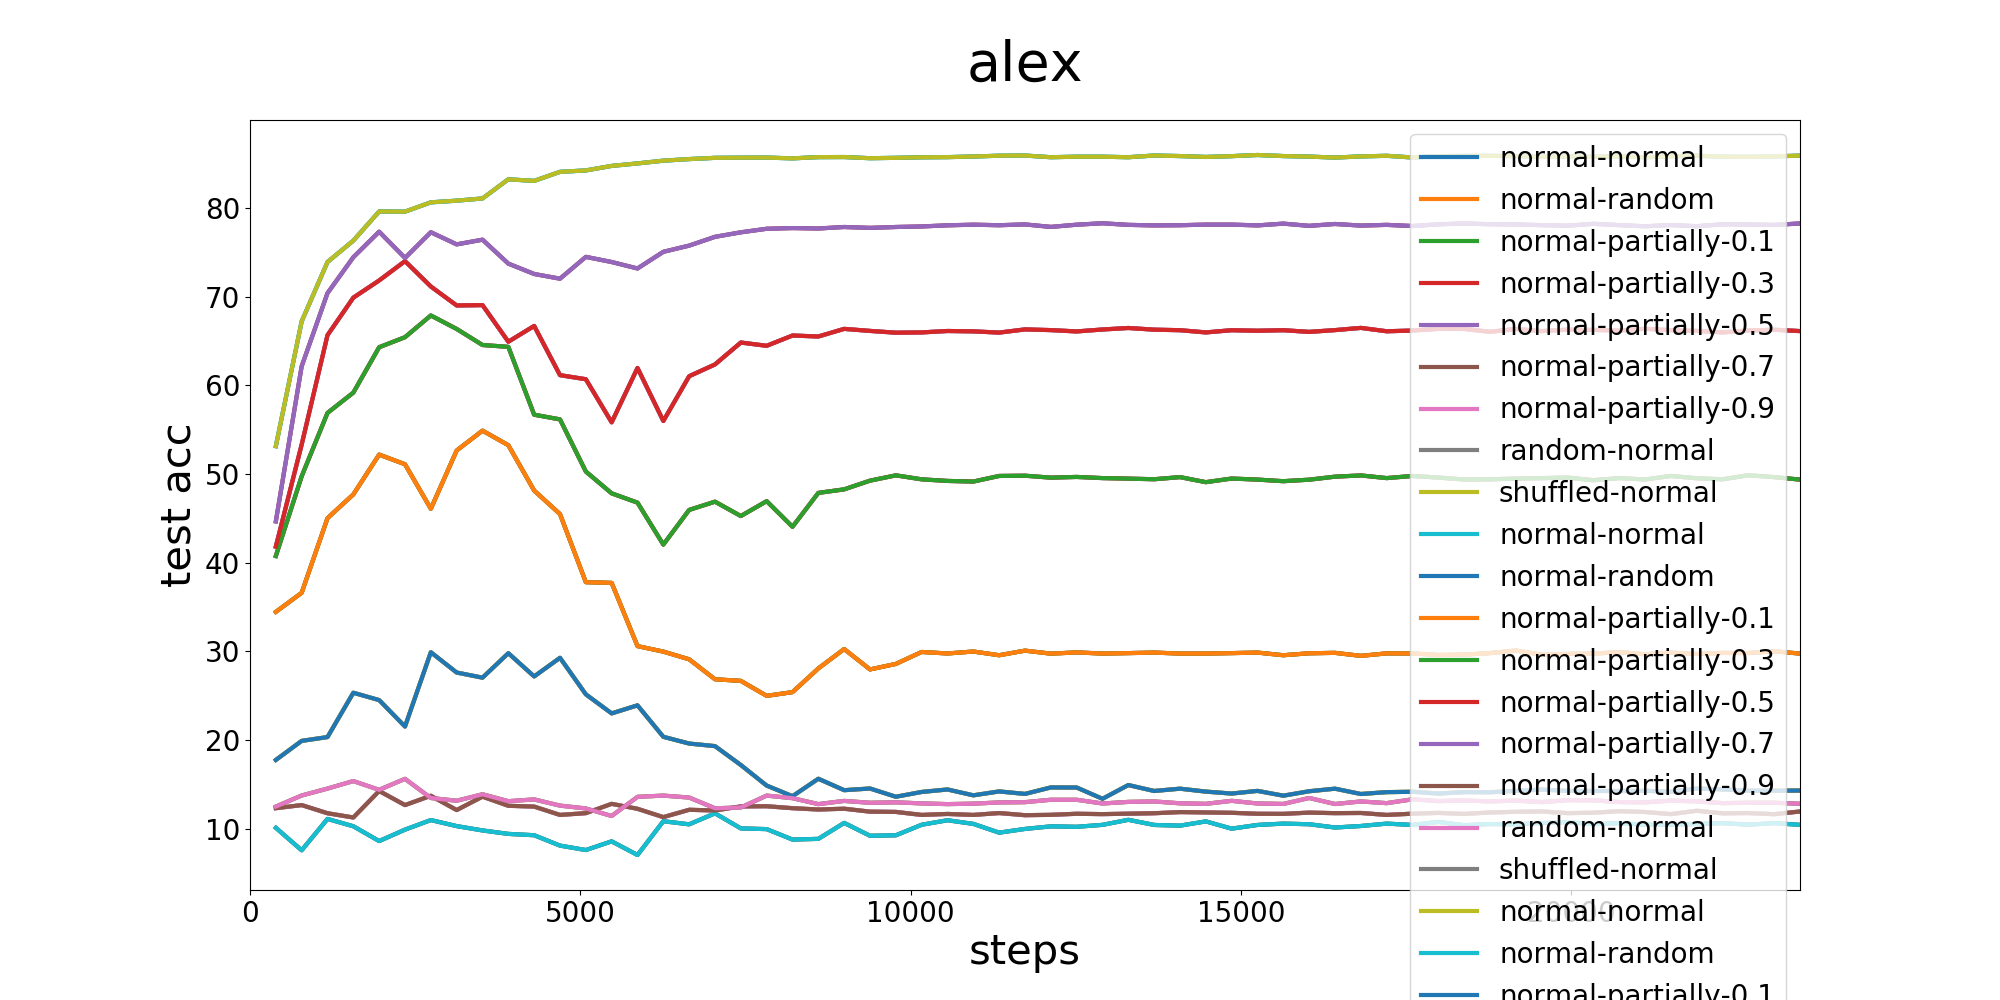
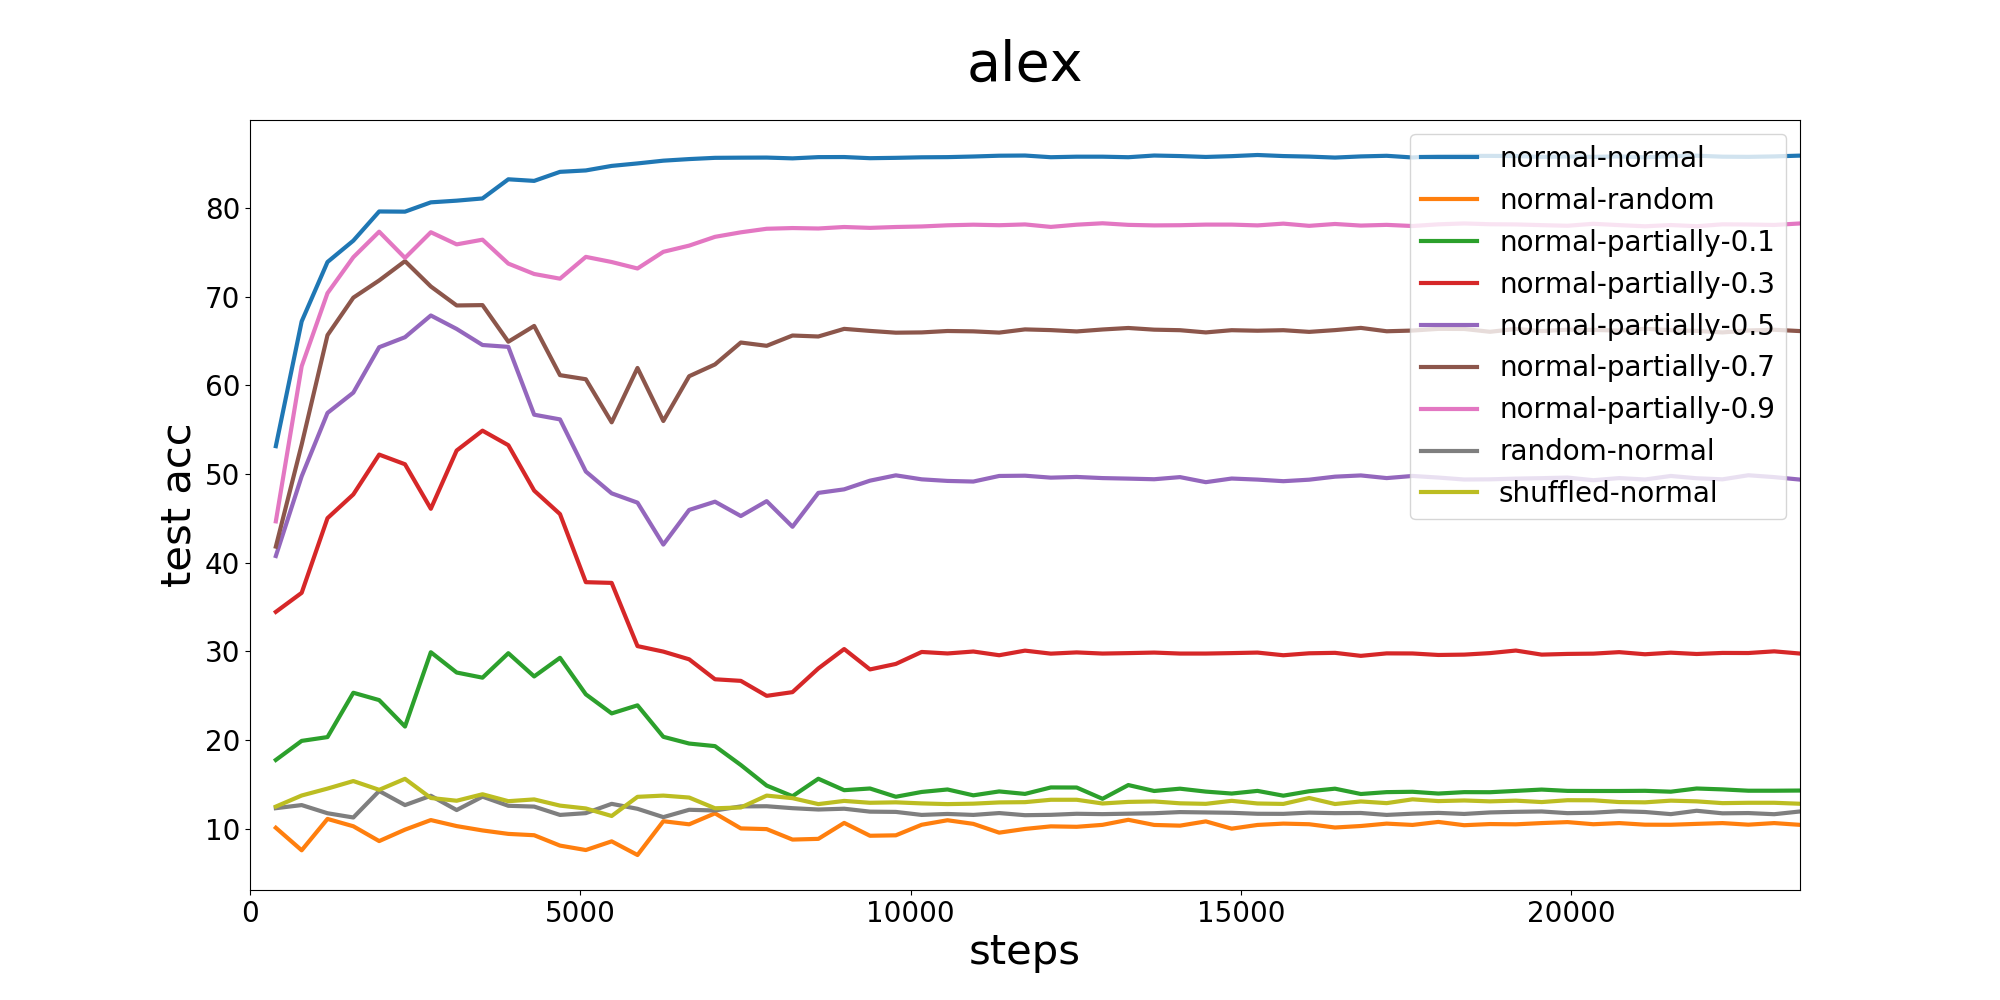
add

diff --git a/over-param.py b/over-param.py
@@ -17,6 +17,9 @@ from cifar import CIFAR10
 from models import resnet, alexnet, inceptions, vgg
 from utils import AverageMeter, accuracy, Logger
 
+os.environ["CUDA_DEVICE_ORDER"] = "PCI_BUS_ID"
+os.environ["CUDA_VISIBLE_DEVICES"] = "0"
+
 use_gpu = torch.cuda.is_available()
 
 
@@ -95,103 +98,98 @@ def train_model(model, criterion, optimizer, scheduler, log_saver, mode, num_epo
     return model, log_saver
 
 
-if __name__ == "__main__":
 
-    os.environ["CUDA_DEVICE_ORDER"] = "PCI_BUS_ID"
-    os.environ["CUDA_VISIBLE_DEVICES"] = "0"
+## 'vgg16','resnet18','alex','inception'
+model_name = 'resnet18'
 
-    ## 'vgg16','resnet18','alex','inception'
-    model_name = 'resnet18'
+root = './'
+lr = 0.1
+BATCH_SIZE = 128
+weight_decay = 0.
+num_epochs = 60
 
-    root = './'
-    lr = 0.1
-    BATCH_SIZE = 128
-    weight_decay = 0.
-    num_epochs = 60
+mode_set = [('normal', 'normal'), ('normal', 'random'), ('normal', 'partially-0.1'),
+            ('normal', 'partially-0.3'), ('normal', 'partially-0.5'), ('normal', 'partially-0.7'),
+            ('normal', 'partially-0.9'), ('random', 'normal'), ('shuffled', 'normal')]
 
-    mode_set = [('normal', 'normal'), ('normal', 'random'), ('normal', 'partially-0.1'),
-                ('normal', 'partially-0.3'), ('normal', 'partially-0.5'), ('normal', 'partially-0.7'),
-                ('normal', 'partially-0.9'), ('random', 'normal'), ('shuffled', 'normal')]
+for (mode1, mode2) in mode_set:
+    print(mode1, ' and ', mode2, ' :')
+    img_transforms = transforms.Compose([transforms.ToTensor(),
+                                         transforms.Normalize(
+                                             (0.4914, 0.4822, 0.4465),
+                                             (0.2023, 0.1994, 0.2010))])
+    training_dataset = CIFAR10(root, train=True, transform=img_transforms, image_mode=mode1, label_mode=mode2)
+    training_loader = DataLoader(training_dataset, BATCH_SIZE, shuffle=True, pin_memory=True)
+
+    testing_dataset = CIFAR10(root, train=False, transform=img_transforms)
+    testing_loader = DataLoader(testing_dataset, BATCH_SIZE, shuffle=False, pin_memory=True)
+
+    loaders = {'train': training_loader, 'test': testing_loader}
+
+    resnet18 = resnet.ResNet18()
+    vgg16 = vgg.VGG('VGG16')
+    alex = alexnet.alexnet()
+    inception = inceptions.GoogLeNet()
+
+    exec('model={}'.format(model_name))
+
+    if use_gpu:
+        model = resnet18.cuda()
+
+    criterion = nn.CrossEntropyLoss()
+    optimizer = optim.SGD(model.parameters(), lr=lr, momentum=0.9, weight_decay=weight_decay)
+    exp_lr_scheduler = optim.lr_scheduler.StepLR(optimizer, step_size=1, gamma=0.95)
+
+    mode = [mode1, mode2, model_name]
+    log = Logger(mode)
+
+    model, log = train_model(model, criterion, optimizer, exp_lr_scheduler, log, mode, num_epochs=num_epochs)
+
+
+def plot(title):
+    fontdict = {'size': 30}
+
+    def get_fig(i):
+        fig = plt.figure(i, figsize=(20, 10))
+        ax = fig.add_subplot(111)
+        plt.title(title, fontsize=40, y=1.04)
+        plt.xticks(fontsize=20)
+        plt.yticks(fontsize=20)
+        return fig, ax
+
+    fig1, ax1 = get_fig(1)
+    fig2, ax2 = get_fig(2)
+    fig3, ax3 = get_fig(3)
+    fig4, ax4 = get_fig(4)
 
     for (mode1, mode2) in mode_set:
-        print(mode1, ' and ', mode2, ' :')
-        img_transforms = transforms.Compose([transforms.ToTensor(),
-                                             transforms.Normalize(
-                                                 (0.4914, 0.4822, 0.4465),
-                                                 (0.2023, 0.1994, 0.2010))])
-        training_dataset = CIFAR10(root, train=True, transform=img_transforms, image_mode=mode1, label_mode=mode2)
-        training_loader = DataLoader(training_dataset, BATCH_SIZE, shuffle=True, pin_memory=True)
+        state = torch.load('./checkpoint_{}/{}_{}_ckpt_epoch_{}.t7'.format(title, mode1, mode2, num_epochs - 1))
+        log = state['log']
+        label = mode1 + '-' + mode2
+        ax1.plot(log.step_logger, log.loss_logger, linewidth=3, label=label)
+        ax2.plot(log.step_logger, log.acc_logger, linewidth=3, label=label)
+        ax3.plot(log.step_logger_test, log.loss_logger_test, linewidth=3, label=label)
+        ax4.plot(log.step_logger_test, log.acc_logger_test, linewidth=3, label=label)
 
-        testing_dataset = CIFAR10(root, train=False, transform=img_transforms)
-        testing_loader = DataLoader(testing_dataset, BATCH_SIZE, shuffle=False, pin_memory=True)
+    for ax in [ax1, ax2, ax3, ax4]:
+        ax.set_xlim(0, log.step_logger[-1])
+        ax.set_xlabel('steps', fontdict=fontdict)
+        ax.legend(loc='upper right', fontsize=20)
 
-        loaders = {'train': training_loader, 'test': testing_loader}
+    ax1.set_ylabel('train loss', fontdict=fontdict)
+    ax2.set_ylabel('train acc', fontdict=fontdict)
+    ax3.set_ylabel('test loss', fontdict=fontdict)
+    ax4.set_ylabel('test acc', fontdict=fontdict)
 
-        resnet18 = resnet.ResNet18()
-        vgg16 = vgg.VGG('VGG16')
-        alex = alexnet.alexnet()
-        inception = inceptions.GoogLeNet()
-
-        exec('model={}'.format(model_name))
-
-        if use_gpu:
-            model = resnet18.cuda()
-
-        criterion = nn.CrossEntropyLoss()
-        optimizer = optim.SGD(model.parameters(), lr=lr, momentum=0.9, weight_decay=weight_decay)
-        exp_lr_scheduler = optim.lr_scheduler.StepLR(optimizer, step_size=1, gamma=0.95)
-
-        mode = [mode1, mode2, model_name]
-        log = Logger(mode)
-
-        model, log = train_model(model, criterion, optimizer, exp_lr_scheduler, log, mode, num_epochs=num_epochs)
+    result_dir = './results-{}/'.format(title)
+    if not os.path.exists(result_dir):
+        os.mkdir(result_dir)
+    fig1.savefig(result_dir + title + '-train-loss.png')
+    fig2.savefig(result_dir + title + '-train-acc.png')
+    fig3.savefig(result_dir + title + '-test-loss.png')
+    fig4.savefig(result_dir + title + '-test-acc.png')
 
 
-    def plot(title):
-
-        fontdict = {'size': 30}
-
-        def get_fig(i):
-            fig = plt.figure(i, figsize=(20, 10))
-            ax = fig.add_subplot(111)
-            plt.title(title, fontsize=40, y=1.04)
-            plt.xticks(fontsize=20)
-            plt.yticks(fontsize=20)
-            return fig, ax
-
-        fig1, ax1 = get_fig(1)
-        fig2, ax2 = get_fig(2)
-        fig3, ax3 = get_fig(3)
-        fig4, ax4 = get_fig(4)
-
-        for (mode1, mode2) in mode_set:
-            state = torch.load('./checkpoint_{}/{}_{}_ckpt_epoch_{}.t7'.format(title, mode1, mode2, num_epochs - 1))
-            log = state['log']
-            label = mode1 + '-' + mode2
-            ax1.plot(log.step_logger, log.loss_logger, linewidth=3, label=label)
-            ax2.plot(log.step_logger, log.acc_logger, linewidth=3, label=label)
-            ax3.plot(log.step_logger_test, log.loss_logger_test, linewidth=3, label=label)
-            ax4.plot(log.step_logger_test, log.acc_logger_test, linewidth=3, label=label)
-
-        for ax in [ax1, ax2, ax3, ax4]:
-            ax.set_xlim(0, log.step_logger[-1])
-            ax.set_xlabel('steps', fontdict=fontdict)
-            ax.legend(loc='upper right', fontsize=20)
-
-        ax1.set_ylabel('train loss', fontdict=fontdict)
-        ax2.set_ylabel('train acc', fontdict=fontdict)
-        ax3.set_ylabel('test loss', fontdict=fontdict)
-        ax4.set_ylabel('test acc', fontdict=fontdict)
-
-        result_dir = './results-{}/'.format(title)
-        if not os.path.exists(result_dir):
-            os.mkdir(result_dir)
-        fig1.savefig(result_dir + title + '-train-loss.png')
-        fig2.savefig(result_dir + title + '-train-acc.png')
-        fig3.savefig(result_dir + title + '-test-loss.png')
-        fig4.savefig(result_dir + title + '-test-acc.png')
-
-
-    plot(model_name)
-    plt.show()
-    plt.close()
+plot(model_name)
+plt.show()
+plt.close()
